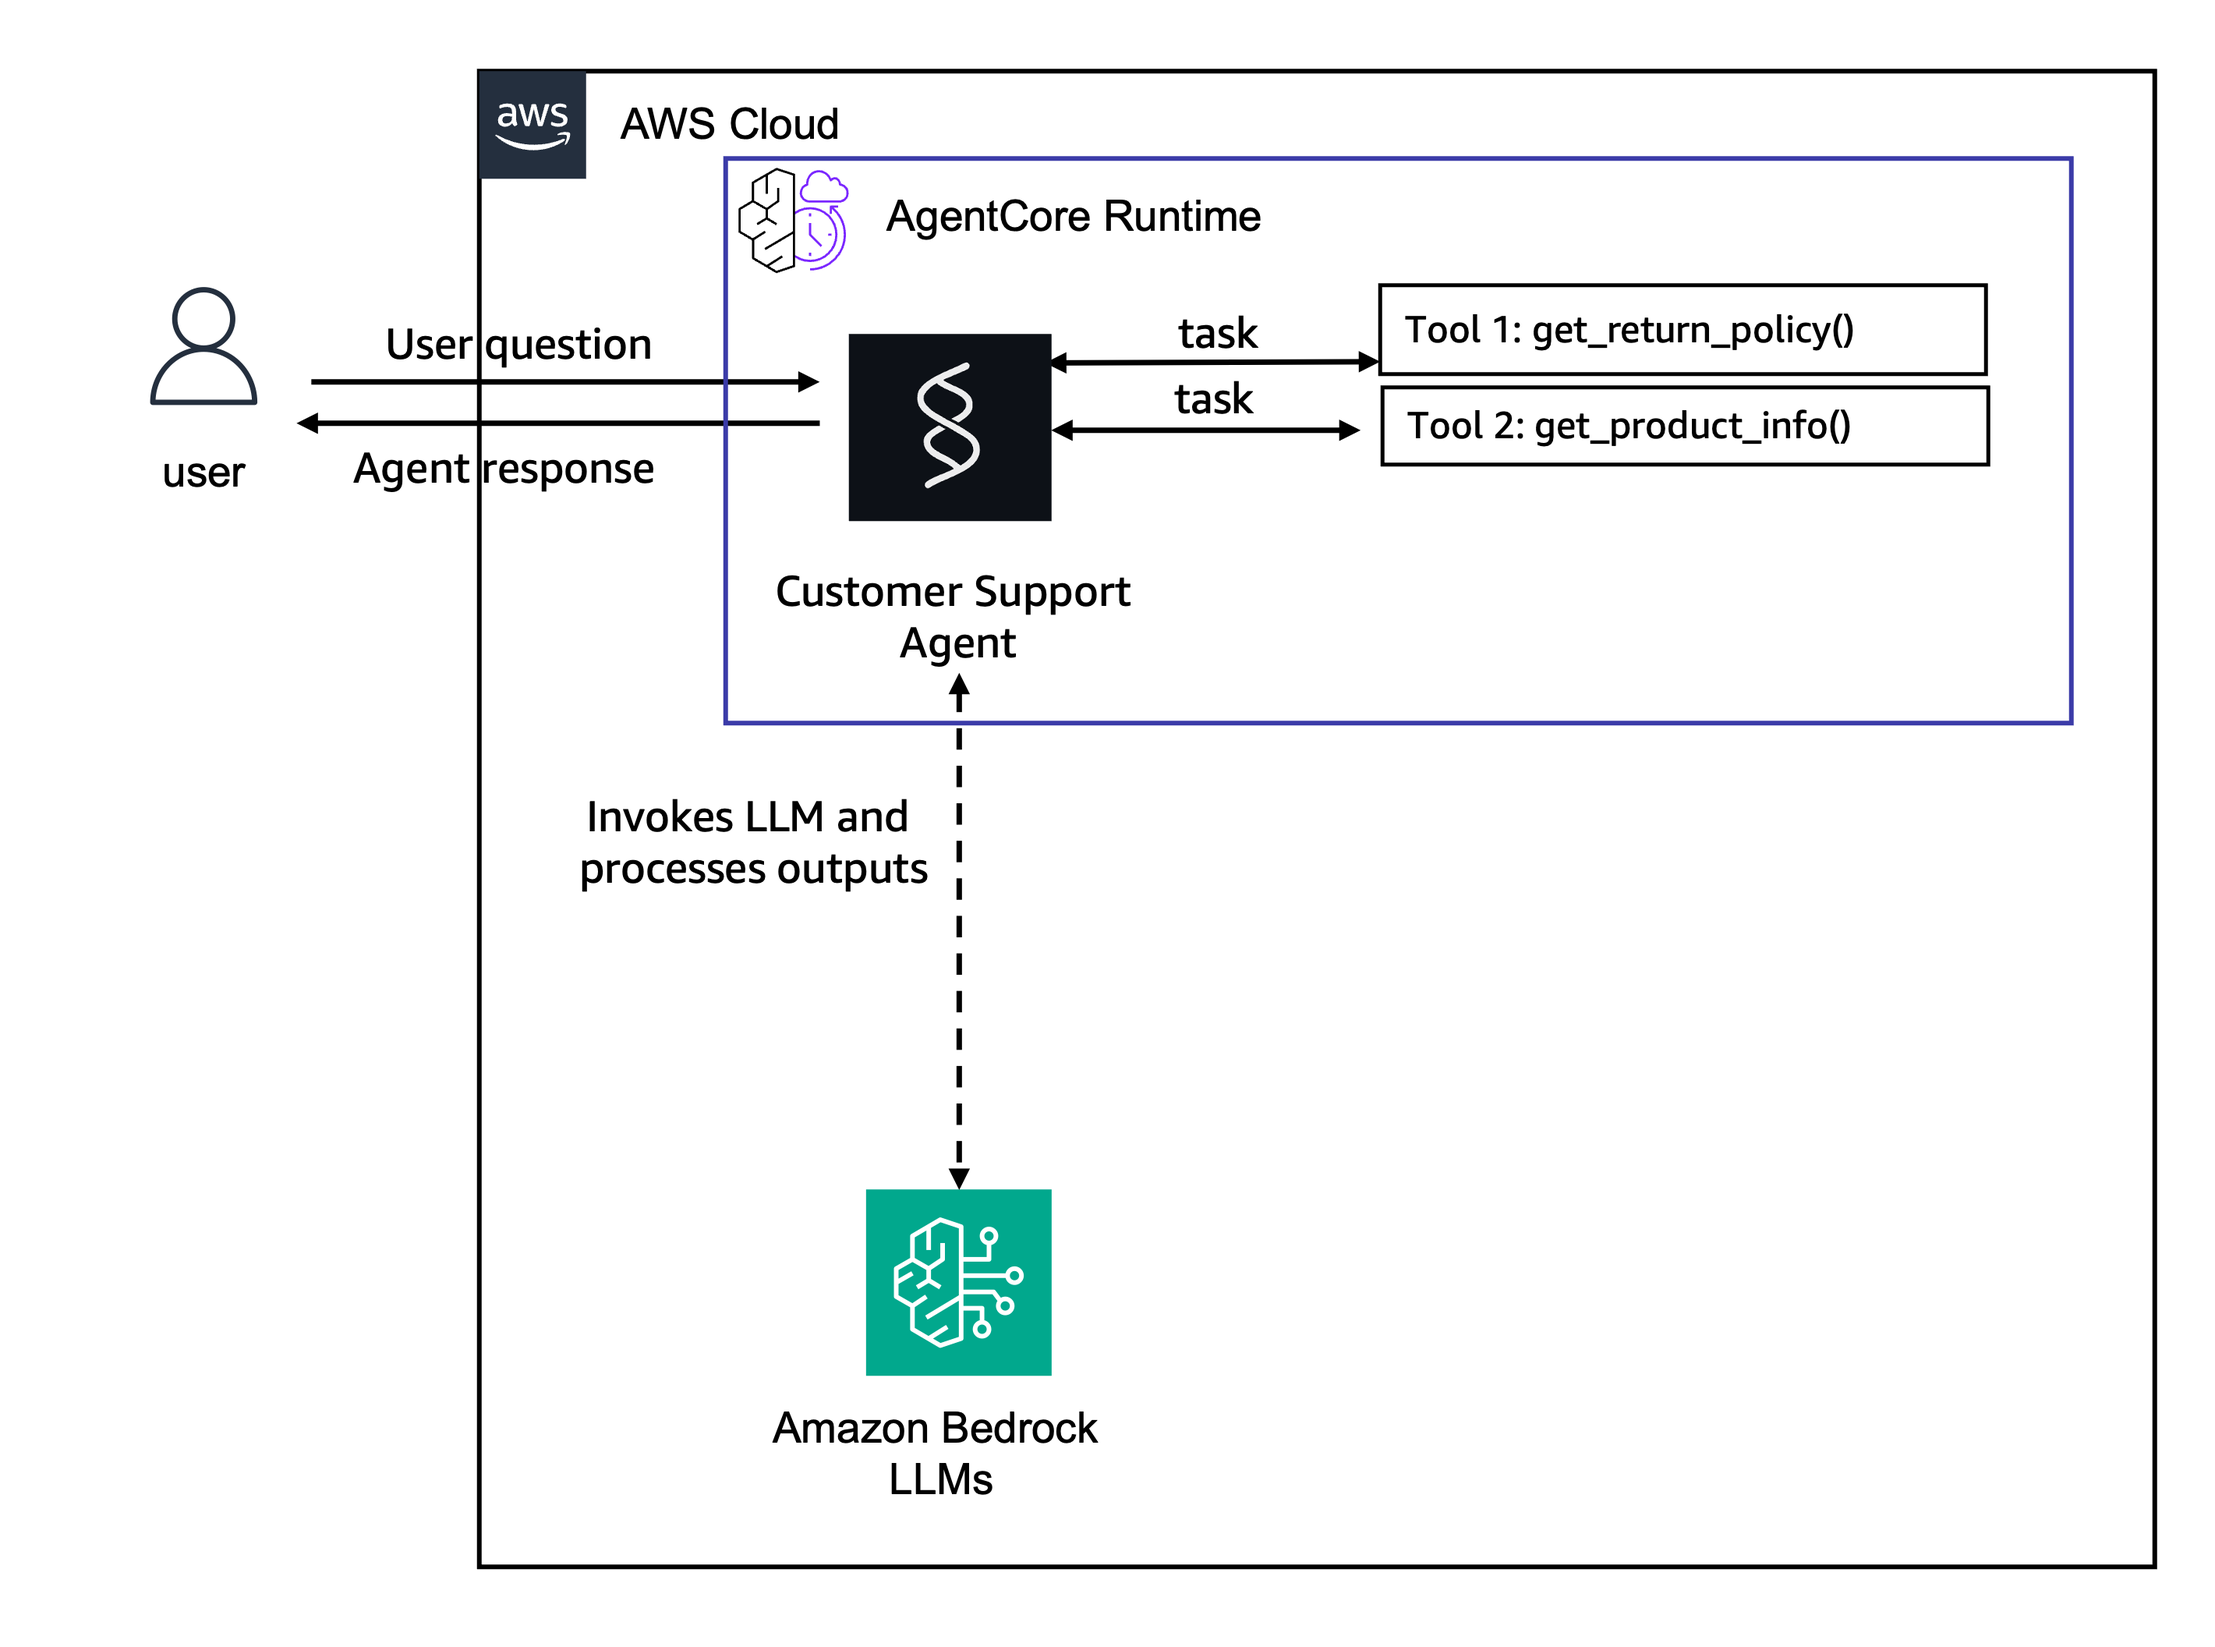
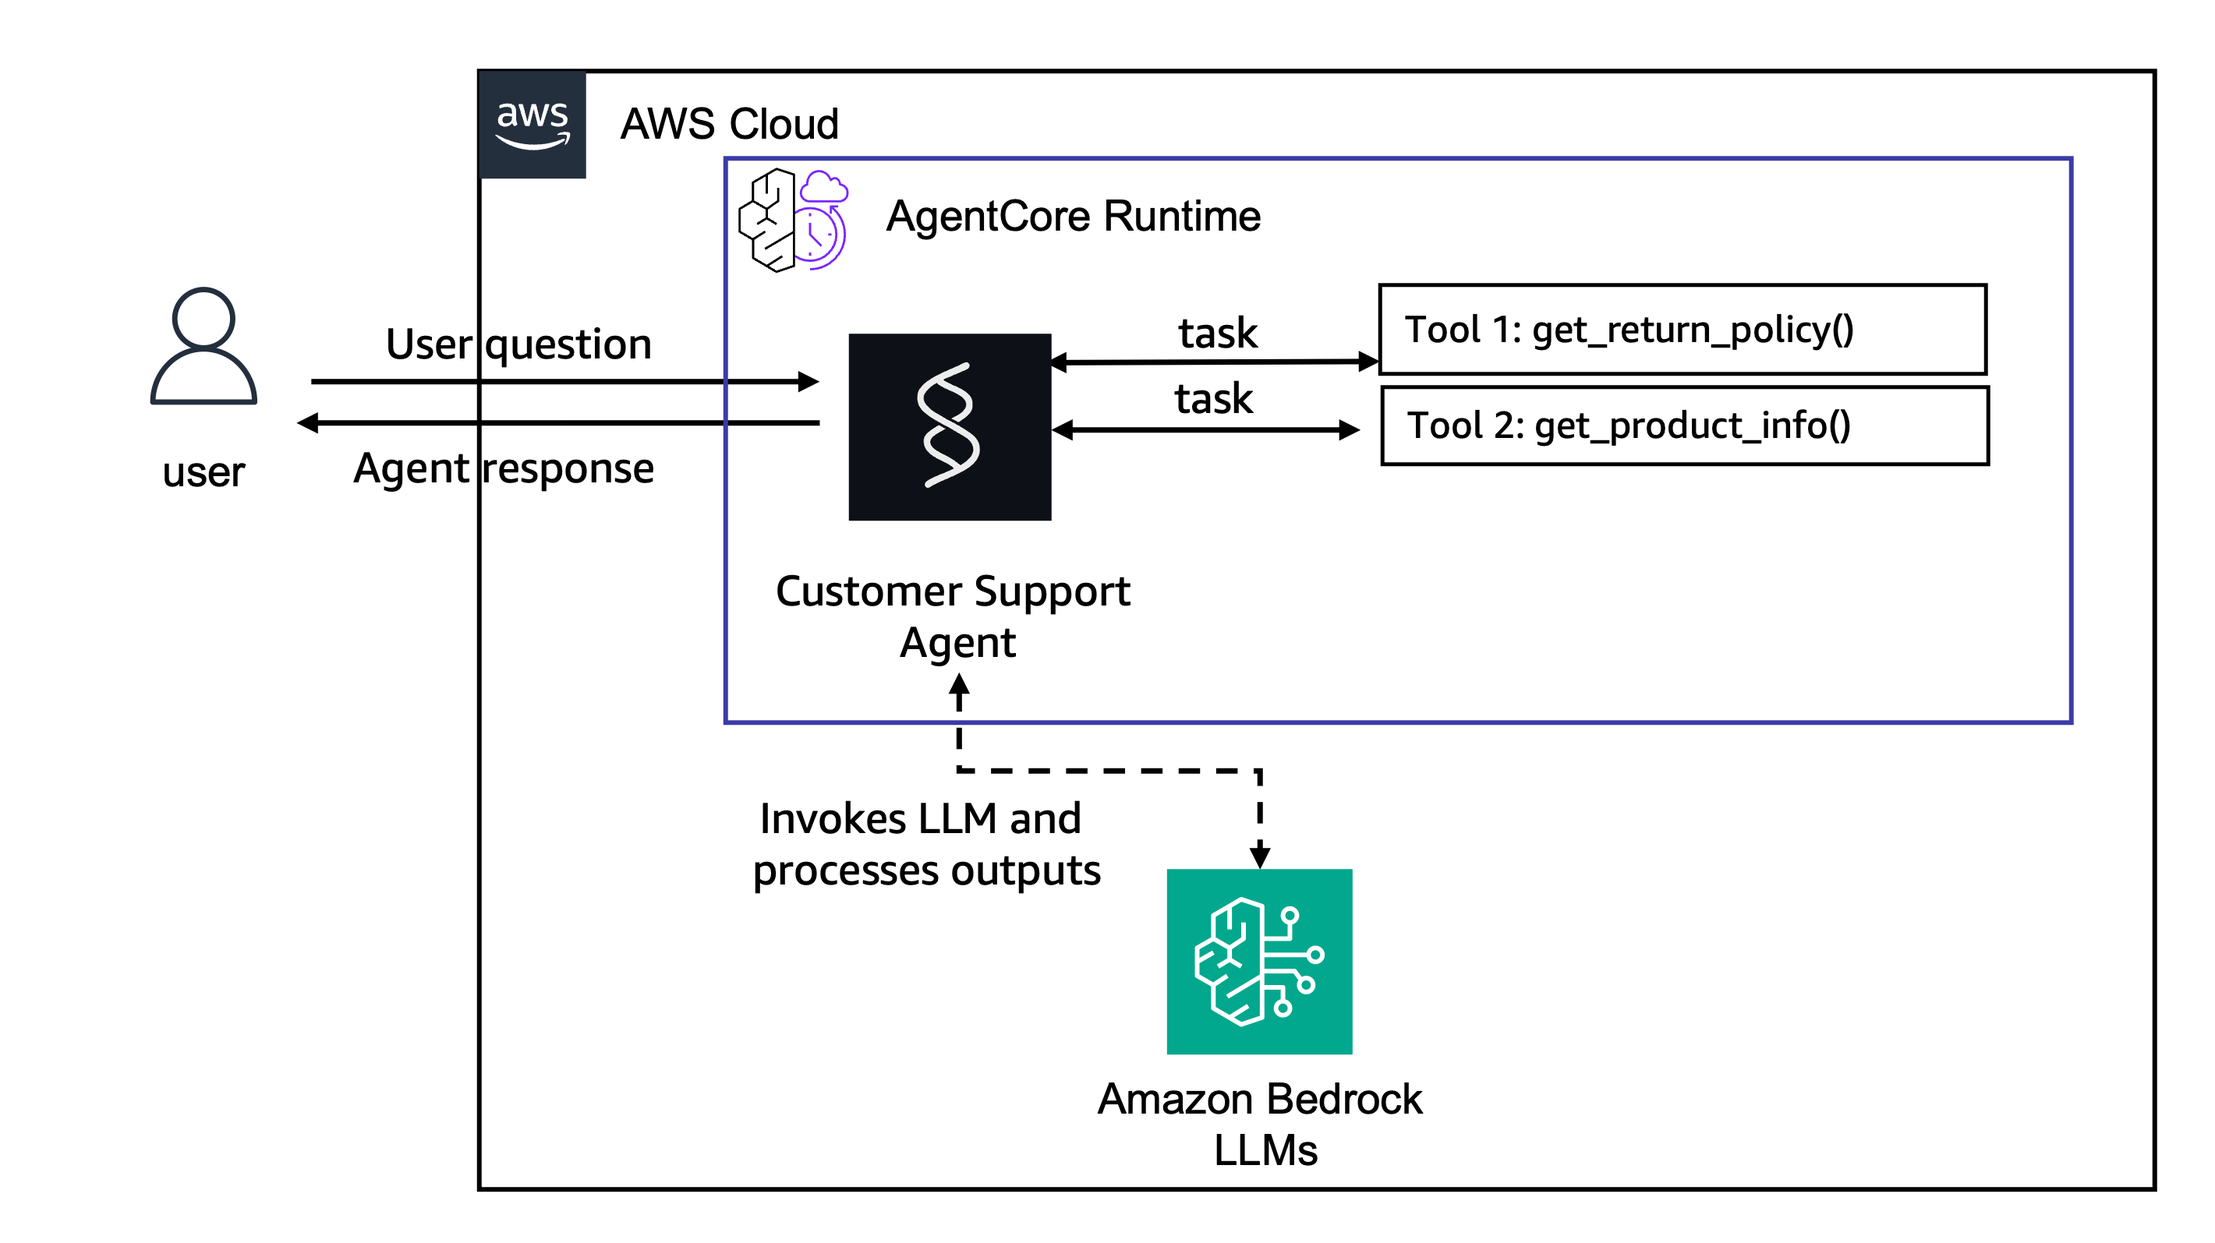
Adding getting started with AgentCore CLI example

Changed region(s): [[0.062, 0.0307, 0.9912, 0.5837], [0.2168, 0.6144, 0.9602, 0.9831], [0.062, 0.3687, 0.1239, 0.3994]]

diff --git a/00-getting-started/README.md b/00-getting-started/README.md
@@ -374,7 +374,6 @@ For a full walkthrough of all these features, see the [AgentCore CLI Workshop](h
 ### Useful resources
 
 - [AgentCore CLI documentation](https://github.com/aws/agentcore-cli)
-- [AgentCore Samples repository](https://github.com/awslabs/agentcore-samples)
 - [Amazon Bedrock AgentCore documentation](https://docs.aws.amazon.com/bedrock-agentcore/)
 - [Strands Agents SDK](https://strandsagents.com/)
 
@@ -385,8 +384,8 @@ For a full walkthrough of all these features, see the [AgentCore CLI Workshop](h
 To tear down all deployed resources:
 
 ```bash
-agentcore remove --all
-agentcore deploy -y
+agentcore remove all
+agentcore deploy
 ```
 
 This deletes the AgentCore Runtime and all associated AWS resources (IAM roles, S3 artifacts, CloudFormation stack).
